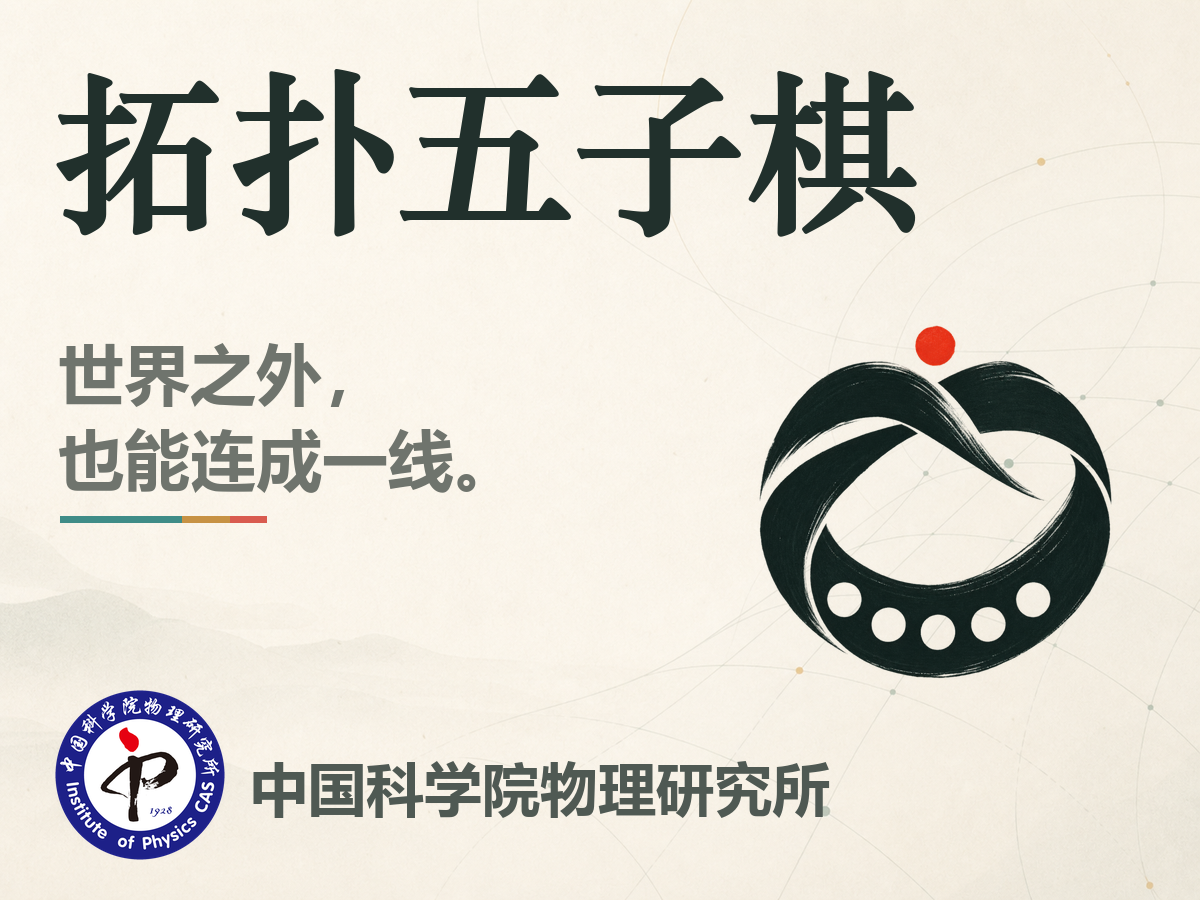
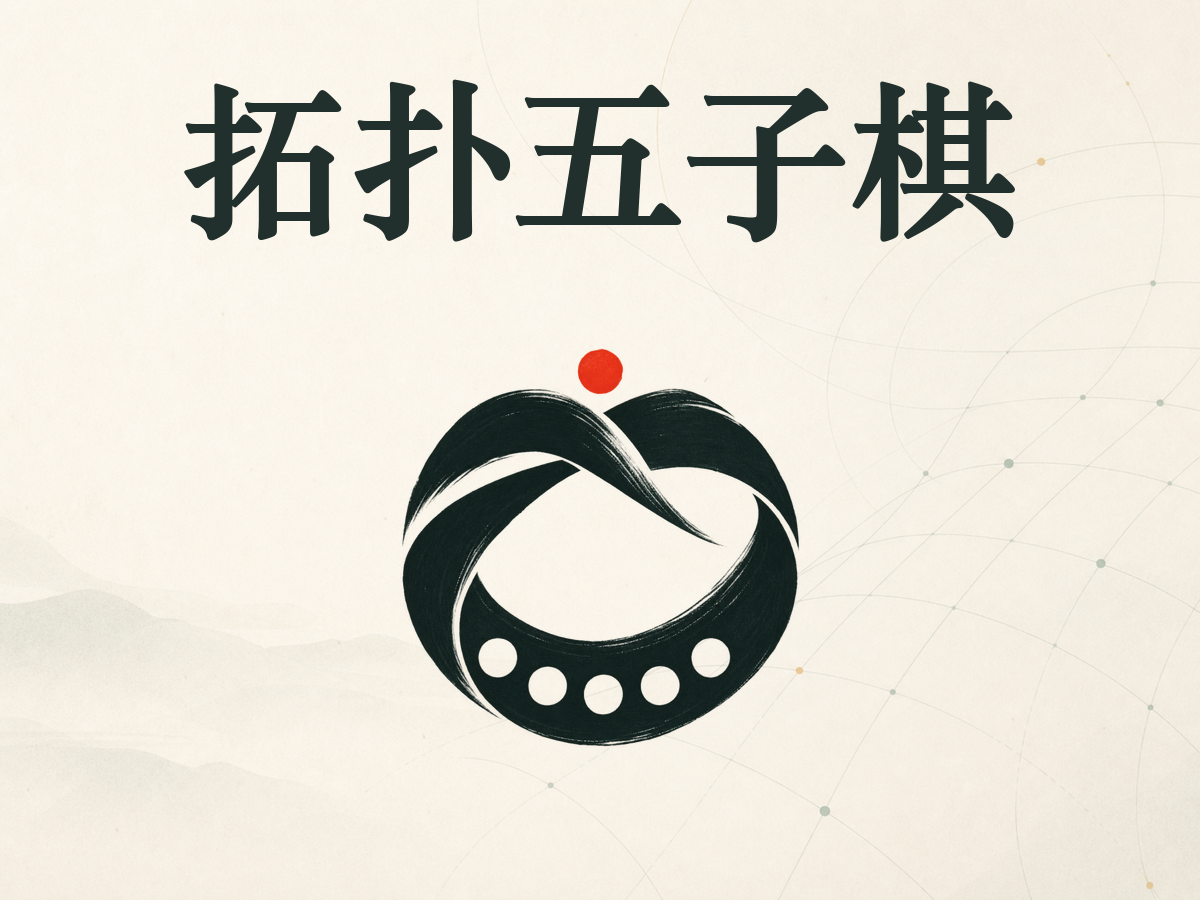
fix: center Toy cover for square sharing crops

Changed region(s): [[0.0308, 0.3422, 0.925, 0.9644], [0.0308, 0.0622, 0.8633, 0.28]]

diff --git a/tests/bilibili.test.js b/tests/bilibili.test.js
@@ -105,5 +105,23 @@ test("Toy 封面是可追溯的 1200x900 确定性导出", () => {
   const provenance = JSON.parse(fs.readFileSync(path.join(ROOT, "promo", "toy-cover-provenance.json"), "utf8"));
   assert.equal(manifest.output, "exports/topology-gomoku-toy-cover-4x3.png");
   assert.equal(manifest.dimensions.ratio, "4:3");
+  assert.deepEqual(manifest.safeArea, {
+    purpose: "Centered square crop used by off-site Toy shares",
+    x: 150,
+    y: 0,
+    width: 900,
+    height: 900,
+    qaCrop: "../artifacts/qa-toy-cover-square-safe-v2.png"
+  });
   assert.equal(provenance.generatedBackground.tool, "built-in image generation");
+});
+
+test("Toy 封面仅把大标题和主图标放进中央方形安全区", () => {
+  const script = fs.readFileSync(path.join(ROOT, "scripts", "compose_toy_cover.py"), "utf8");
+  assert.match(script, /SAFE_BOX = \(150, 0, 1050, 900\)/);
+  assert.match(script, /title = "拓扑五子棋"/);
+  assert.match(script, /brand\.thumbnail\(\(530, 530\)/);
+  assert.match(script, /assert_inside_safe_box\(title_bounds, "title"\)/);
+  assert.match(script, /assert_inside_safe_box\(brand_bounds, "brand mark"\)/);
+  assert.doesNotMatch(script, /世界之外|也能连成一线|中国科学院物理研究所/);
 });

diff --git a/scripts/compose_toy_cover.py b/scripts/compose_toy_cover.py
@@ -6,52 +6,61 @@ from PIL import Image, ImageDraw, ImageFont, ImageOps
 ROOT = Path(__file__).resolve().parents[1]
 BACKGROUND = ROOT / "promo" / "assets" / "toy-cover-background-v1.png"
 BRAND = ROOT / "app" / "assets" / "brand-icon.png"
-IOP_LOGO = ROOT / "promo" / "assets" / "iop-logo.png"
 OUTPUT = ROOT / "promo" / "exports" / "topology-gomoku-toy-cover-4x3.png"
+QA_SQUARE_CROP = ROOT / "artifacts" / "qa-toy-cover-square-safe-v2.png"
 TITLE_FONT = Path("C:/Windows/Fonts/STZHONGS.TTF")
-BOLD_FONT = Path("C:/Windows/Fonts/msyhbd.ttc")
 
 SIZE = (1200, 900)
+SAFE_BOX = (150, 0, 1050, 900)
 INK = "#21302c"
-MUTED = "#6f746d"
-TEAL = "#3f8c87"
-GOLD = "#c79244"
-RED = "#d95b4f"
+
+
+def assert_inside_safe_box(bounds: tuple[int, int, int, int], label: str) -> None:
+    left, top, right, bottom = bounds
+    safe_left, safe_top, safe_right, safe_bottom = SAFE_BOX
+    if left < safe_left or top < safe_top or right > safe_right or bottom > safe_bottom:
+        raise ValueError(f"{label} escapes the centered 1:1 safe area: {bounds}")
 
 
 def main() -> None:
     background = Image.open(BACKGROUND).convert("RGB")
     background = ImageOps.fit(background, SIZE, method=Image.Resampling.LANCZOS)
 
-    brand = Image.open(BRAND).convert("RGBA")
-    brand.thumbnail((470, 470), Image.Resampling.LANCZOS)
-    brand_x = 700 + (470 - brand.width) // 2
-    brand_y = 270 + (470 - brand.height) // 2
-    background.paste(brand, (brand_x, brand_y), brand)
-
-    iop_logo = Image.open(IOP_LOGO).convert("RGBA")
-    iop_logo.thumbnail((170, 170), Image.Resampling.LANCZOS)
-    background.paste(iop_logo, (55, 690), iop_logo)
-
     draw = ImageDraw.Draw(background)
-    title_font = ImageFont.truetype(str(TITLE_FONT), 174)
-    subtitle_font = ImageFont.truetype(str(BOLD_FONT), 66)
-    institution_font = ImageFont.truetype(str(BOLD_FONT), 58)
+    title = "拓扑五子棋"
+    title_font = ImageFont.truetype(str(TITLE_FONT), 168)
+    title_bbox = draw.textbbox((0, 0), title, font=title_font, stroke_width=2)
+    title_x = round(SIZE[0] / 2 - (title_bbox[0] + title_bbox[2]) / 2)
+    title_y = 42
+    title_bounds = (
+        title_x + title_bbox[0],
+        title_y + title_bbox[1],
+        title_x + title_bbox[2],
+        title_y + title_bbox[3],
+    )
+    assert_inside_safe_box(title_bounds, "title")
+    draw.text((title_x, title_y), title, font=title_font, fill=INK, stroke_width=2, stroke_fill=INK)
 
-    draw.text((52, 30), "拓扑五子棋", font=title_font, fill=INK, stroke_width=2, stroke_fill=INK)
-    draw.text((58, 328), "世界之外，", font=subtitle_font, fill=MUTED)
-    draw.text((58, 414), "也能连成一线。", font=subtitle_font, fill=MUTED)
-
-    line_y = 519
-    draw.line((60, line_y, 182, line_y), fill=TEAL, width=7)
-    draw.line((182, line_y, 230, line_y), fill=GOLD, width=7)
-    draw.line((230, line_y, 266, line_y), fill=RED, width=7)
-
-    draw.text((250, 748), "中国科学院物理研究所", font=institution_font, fill="#4f5953")
+    brand = Image.open(BRAND).convert("RGBA")
+    brand.thumbnail((530, 530), Image.Resampling.LANCZOS)
+    brand_x = (SIZE[0] - brand.width) // 2
+    brand_y = 286
+    alpha_bounds = brand.getchannel("A").getbbox() or (0, 0, brand.width, brand.height)
+    brand_bounds = (
+        brand_x + alpha_bounds[0],
+        brand_y + alpha_bounds[1],
+        brand_x + alpha_bounds[2],
+        brand_y + alpha_bounds[3],
+    )
+    assert_inside_safe_box(brand_bounds, "brand mark")
+    background.paste(brand, (brand_x, brand_y), brand)
 
     OUTPUT.parent.mkdir(parents=True, exist_ok=True)
     background.save(OUTPUT, format="PNG", optimize=True)
+    QA_SQUARE_CROP.parent.mkdir(parents=True, exist_ok=True)
+    background.crop(SAFE_BOX).save(QA_SQUARE_CROP, format="PNG", optimize=True)
     print(f"Wrote {OUTPUT} ({background.width}x{background.height})")
+    print(f"Wrote {QA_SQUARE_CROP} (centered 1:1 safety crop)")
 
 
 if __name__ == "__main__":
